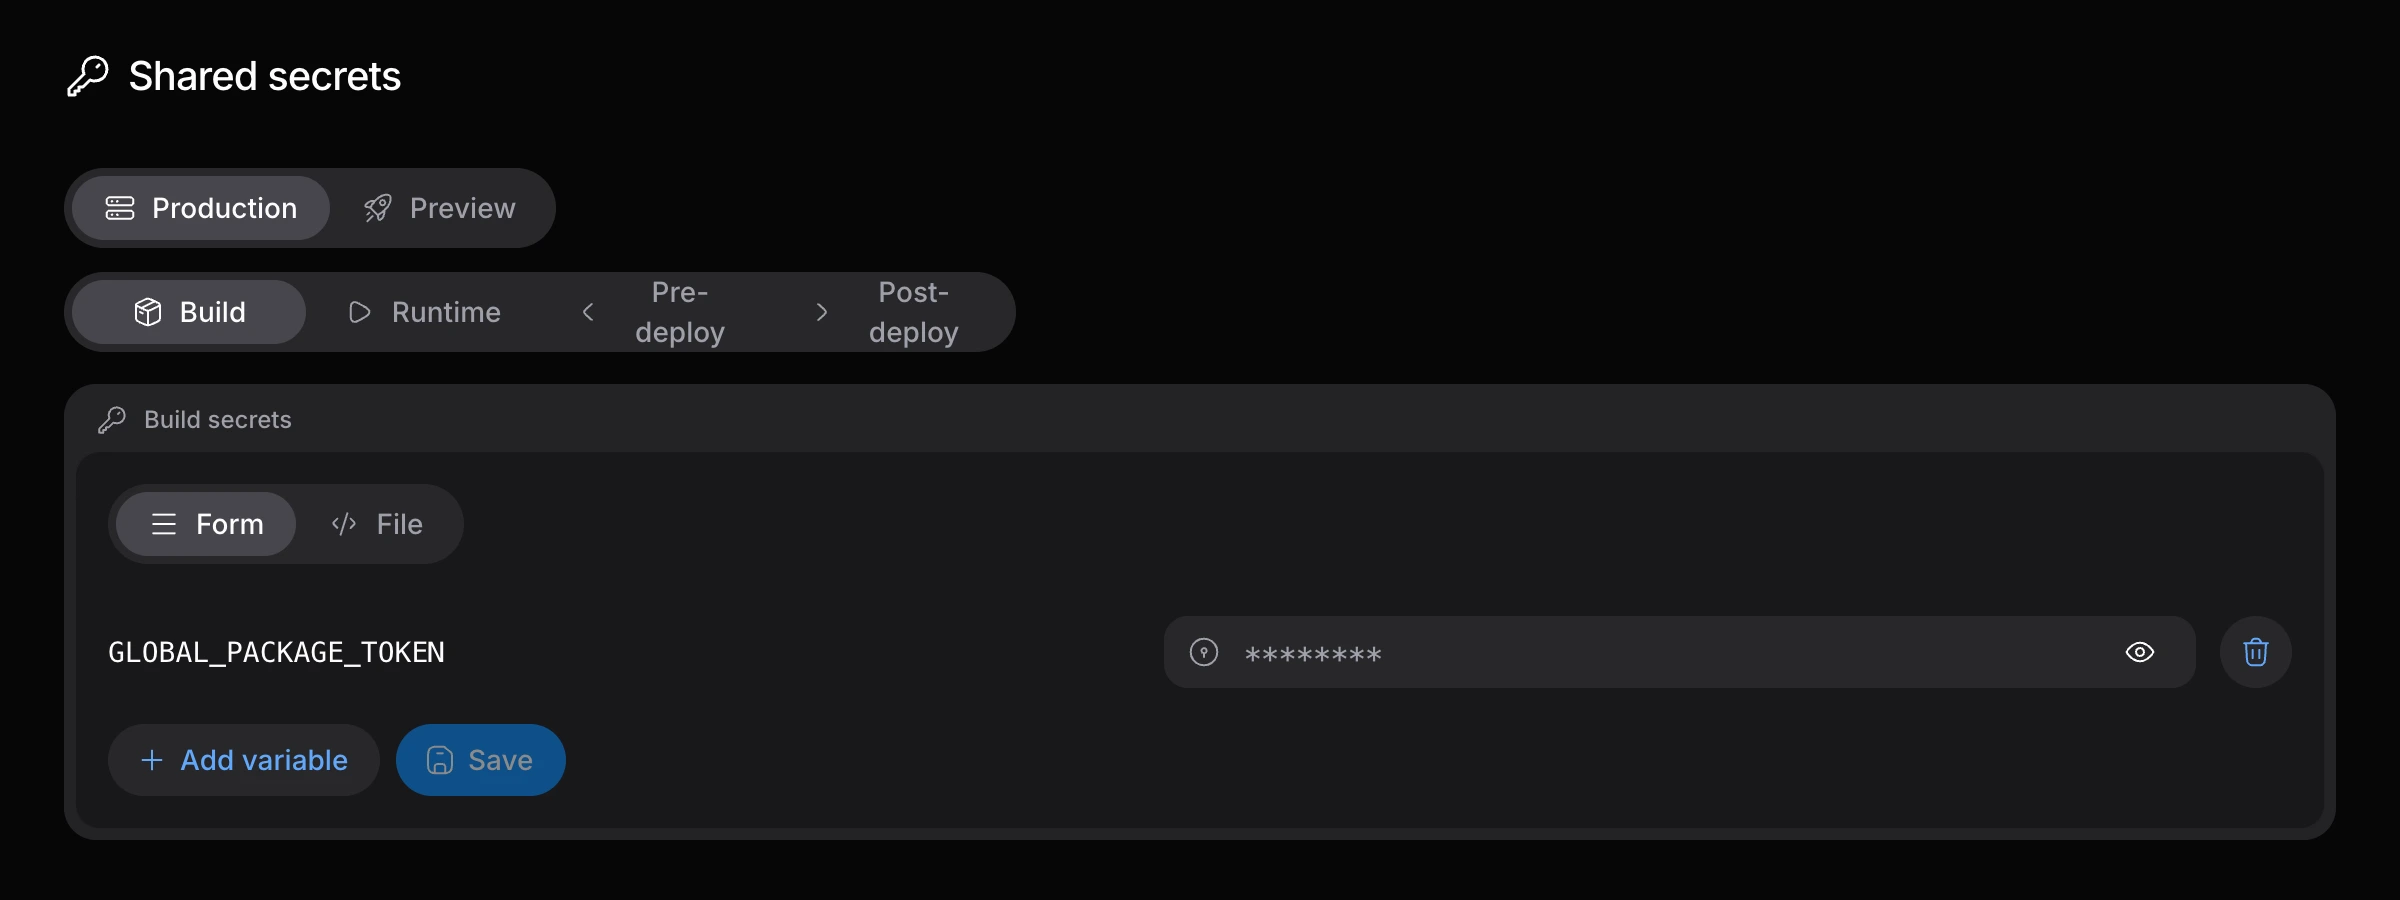
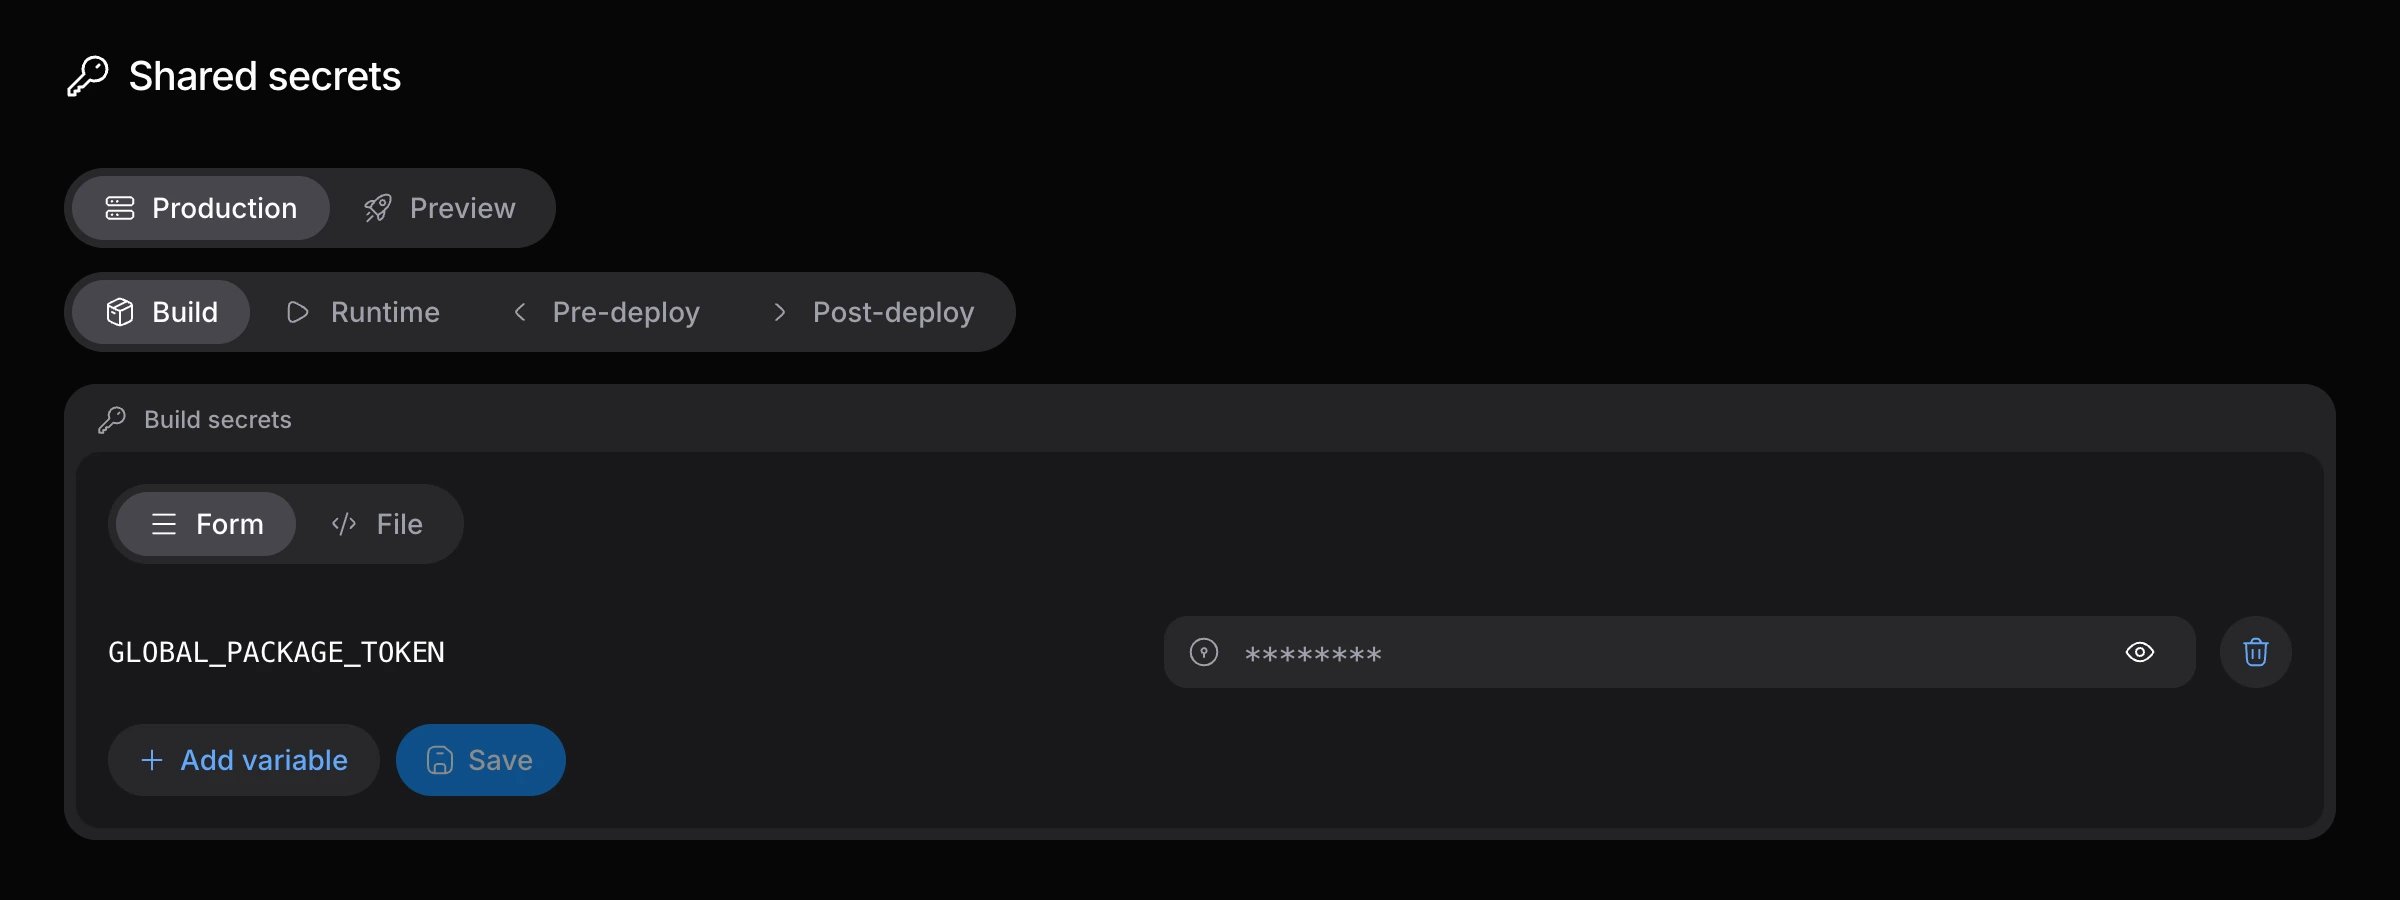
Keep secret stage tabs on a single line

Changed region(s): [[0.0312, 0.3111, 0.3125, 0.4044], [0.3438, 0.3111, 0.4062, 0.4044]]

diff --git a/apps/towbar-web-app/src/components/app-secrets.tsx b/apps/towbar-web-app/src/components/app-secrets.tsx
@@ -215,7 +215,11 @@ function SecretSelector({
         <Tabs.ListContainer className="w-fit max-w-full overflow-x-auto">
           <Tabs.List aria-label={label} className="min-w-max">
             {options.map((option) => (
-              <Tabs.Tab key={option.value} id={option.value} className="gap-2">
+              <Tabs.Tab
+                key={option.value}
+                id={option.value}
+                className="w-auto shrink-0 gap-2 whitespace-nowrap"
+              >
                 <HugeiconsIcon
                   aria-hidden="true"
                   icon={option.icon}
